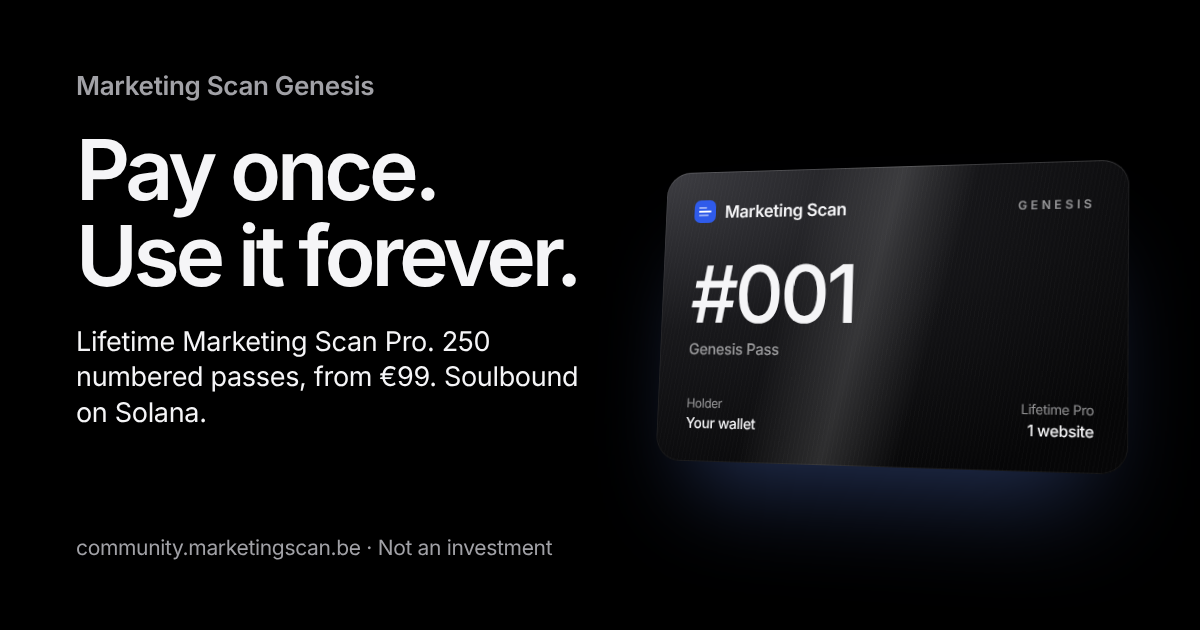
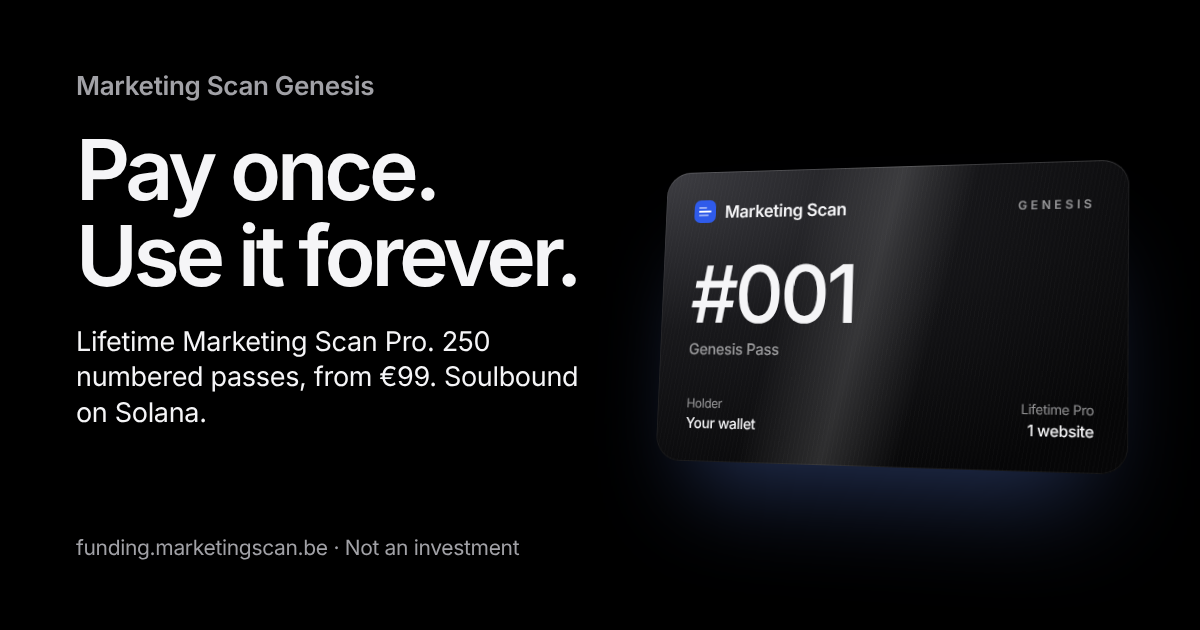
Domein: funding.marketingscan.be
Alle verwijzingen naar community.marketingscan.be wijzen nu naar
funding.marketingscan.be: canonieke link en deelafbeelding, metadata en
afbeeldingen van de passes, links in de X-posts, de deelknop na het claimen en
de achterkant van de pass. De supporter-badge en de test-euro op devnet wijzen
op de keten al naar het nieuwe adres.

Claude-Session: https://claude.ai/code/session_01Fs7m1nb7FMZ6Lk43gGJcuW

Changed region(s): [[0.0617, 0.8444, 0.4625, 0.9048]]

diff --git a/marketing/x/test/calendar.test.js b/marketing/x/test/calendar.test.js
@@ -41,7 +41,7 @@ test("de meegeleverde kalender: alles concept, Genesis-posts met beide vermeldin
     assert.doesNotMatch(r.tekst, /pre-?sale/i, r.id);
     assert.ok((r.tekst.match(/(^|\s)#[a-z]\w*/gi) ?? []).length <= 2, `${r.id}: max 2 hashtags`);
     for (const link of extractLinks(r.tekst)) {
-      if (link.raw.includes("community.marketingscan.be")) assert.ok(link.raw.endsWith(`?lang=${r.lang}`), `${r.id}: ${link.raw}`);
+      if (link.raw.includes("funding.marketingscan.be")) assert.ok(link.raw.endsWith(`?lang=${r.lang}`), `${r.id}: ${link.raw}`);
     }
   }
   const categories = new Set(reviewed.map((r) => r.categorie));
@@ -76,13 +76,13 @@ test("placeholders worden ingevuld vanuit config, links naar de site krijgen ?la
 });
 
 test("?lang komt er enkel bij als de link nog geen query heeft", () => {
-  assert.equal(withLang("https://community.marketingscan.be/genesis", "nl"), "https://community.marketingscan.be/genesis?lang=nl");
-  assert.equal(withLang("https://community.marketingscan.be/genesis?ref=x", "nl"), "https://community.marketingscan.be/genesis?ref=x");
-  assert.equal(withLang("https://community.marketingscan.be/genesis?lang=en", "nl"), "https://community.marketingscan.be/genesis?lang=en");
-  assert.equal(withLang("https://community.marketingscan.be/voorwaarden#refund", "en"), "https://community.marketingscan.be/voorwaarden?lang=en#refund");
+  assert.equal(withLang("https://funding.marketingscan.be/genesis", "nl"), "https://funding.marketingscan.be/genesis?lang=nl");
+  assert.equal(withLang("https://funding.marketingscan.be/genesis?ref=x", "nl"), "https://funding.marketingscan.be/genesis?ref=x");
+  assert.equal(withLang("https://funding.marketingscan.be/genesis?lang=en", "nl"), "https://funding.marketingscan.be/genesis?lang=en");
+  assert.equal(withLang("https://funding.marketingscan.be/voorwaarden#refund", "en"), "https://funding.marketingscan.be/voorwaarden?lang=en#refund");
   assert.equal(withLang("", "en"), "");
-  const custom = { ...config, links: { ...config.links, genesis: "https://community.marketingscan.be/genesis?utm_source=x" } };
-  assert.equal(renderText("{genesis}", custom), "https://community.marketingscan.be/genesis?utm_source=x");
+  const custom = { ...config, links: { ...config.links, genesis: "https://funding.marketingscan.be/genesis?utm_source=x" } };
+  assert.equal(renderText("{genesis}", custom), "https://funding.marketingscan.be/genesis?utm_source=x");
 });
 
 test("een link met ?lang telt nog altijd als 23 tekens", () => {
@@ -193,7 +193,7 @@ test("sjabloon wordt ingevuld met recente Genesis-cijfers", () => {
   assert.ok(current);
   assert.equal(current.moment.toISOString(), "2026-10-26T09:00:00.000Z");
   assert.match(current.tekst, /^Week 44: 42\/250 passes, 3\/25 agency-passes, 17 supporters, €12\.345,50 van €50\.000, 1\.234 wekelijkse gebruikers\. Stand: rechtsvorm bij de boekhouder\.\n/);
-  assert.match(current.tekst, /https:\/\/community\.marketingscan\.be\/transparantie\?lang=nl$/);
+  assert.match(current.tekst, /https:\/\/funding\.marketingscan\.be\/transparantie\?lang=nl$/);
   assert.equal(current.lang, "nl");
   assert.deepEqual(current.issues.filter((i) => i.niveau === "fout"), []);
 });

diff --git a/web/index.html b/web/index.html
@@ -5,24 +5,24 @@
     <meta name="viewport" content="width=device-width, initial-scale=1, viewport-fit=cover" />
     <title>Marketing Scan Genesis</title>
     <meta name="description" content="Pay once. Use it forever. Lifetime Marketing Scan Pro: 250 numbered passes in your own wallet, every euro public on Solana. Not an investment." />
-    <link rel="canonical" href="https://community.marketingscan.be/" />
+    <link rel="canonical" href="https://funding.marketingscan.be/" />
     <meta name="theme-color" content="#000000" />
 
     <meta property="og:type" content="website" />
     <meta property="og:site_name" content="Marketing Scan" />
     <meta property="og:locale" content="en_US" />
     <meta property="og:locale:alternate" content="nl_BE" />
-    <meta property="og:url" content="https://community.marketingscan.be/" />
+    <meta property="og:url" content="https://funding.marketingscan.be/" />
     <meta property="og:title" content="Marketing Scan Genesis: pay once, use it forever" />
     <meta property="og:description" content="250 numbered passes from €99, soulbound on Solana, 14-day refund. Not an investment." />
-    <meta property="og:image" content="https://community.marketingscan.be/og-genesis.png" />
+    <meta property="og:image" content="https://funding.marketingscan.be/og-genesis.png" />
     <meta property="og:image:width" content="1200" />
     <meta property="og:image:height" content="630" />
     <meta property="og:image:alt" content="Marketing Scan Genesis Pass #001: pay once, use it forever" />
     <meta name="twitter:card" content="summary_large_image" />
     <meta name="twitter:title" content="Marketing Scan Genesis: pay once, use it forever" />
     <meta name="twitter:description" content="250 numbered passes from €99, soulbound on Solana, 14-day refund. Not an investment." />
-    <meta name="twitter:image" content="https://community.marketingscan.be/og-genesis.png" />
+    <meta name="twitter:image" content="https://funding.marketingscan.be/og-genesis.png" />
 
     <link rel="icon" href="/icon.svg" type="image/svg+xml" />
     <link rel="preconnect" href="https://fonts.googleapis.com" />

diff --git a/marketing/x/test/compliance.test.js b/marketing/x/test/compliance.test.js
@@ -22,7 +22,7 @@ const config = {
     legalReviewDone: false,
     required: { en: "Not an investment", nl: "Geen investering" },
     noticeWhenNotLive: { en: "Not on sale yet", nl: "Nog geen verkoop" },
-    voorwaardenUrl: "https://community.marketingscan.be/voorwaarden",
+    voorwaardenUrl: "https://funding.marketingscan.be/voorwaarden",
   },
   links: { allowedDomains: ["marketingscan.be", "explorer.solana.com"] },
   maxHashtags: 2,
@@ -215,7 +215,7 @@ test("de demo op het testnet uitleggen is geen koopoproep", () => {
 });
 
 test("categorie verkoop: geblokkeerd tot verkoopActief en legalReviewDone allebei true zijn", () => {
-  const tekst = "Koop nu je Genesis Pass. Geen investering. https://community.marketingscan.be/voorwaarden";
+  const tekst = "Koop nu je Genesis Pass. Geen investering. https://funding.marketingscan.be/voorwaarden";
   for (const offer of [{}, { verkoopActief: true }, { legalReviewDone: true }]) {
     const cfg = withOffer(offer);
     assert.equal(saleLive(cfg), false);
@@ -512,7 +512,7 @@ test("Engels: de demo uitleggen en de scan aanbieden is geen koopoproep", () => 
 });
 
 test("Engels live: verkooppost met disclaimer en voorwaarden gaat door, enkel in categorie verkoop", () => {
-  const tekst = "Claim your Genesis Pass. Not an investment. https://community.marketingscan.be/voorwaarden?lang=en";
+  const tekst = "Claim your Genesis Pass. Not an investment. https://funding.marketingscan.be/voorwaarden?lang=en";
   assert.ok(rules(checkPost({ categorie: "verkoop", tekst }, { ...en, offer: { ...en.offer, verkoopActief: true } })).includes("verkoop-gesloten"));
   assert.equal(hasErrors(checkPost({ categorie: "verkoop", tekst }, enLive)), false);
   assert.ok(rules(checkPost({ categorie: "genesis", tekst }, enLive)).includes("koopoproep"));

diff --git a/marketing/x/test/text.test.js b/marketing/x/test/text.test.js
@@ -12,7 +12,7 @@ test("euroteken en emoji tellen dubbel, zoals op X", () => {
 });
 
 test("een link telt altijd als 23 tekens", () => {
-  assert.equal(weightedLength("Kijk: https://community.marketingscan.be/een/heel/lang/pad"), 6 + 23);
+  assert.equal(weightedLength("Kijk: https://funding.marketingscan.be/een/heel/lang/pad"), 6 + 23);
   assert.equal(weightedLength("www.marketingscan.be"), 23);
 });
 
@@ -24,7 +24,7 @@ test("leestekens na een link horen niet bij de link", () => {
 test("linkherkenning en host", () => {
   assert.equal(hasLink("geen link hier"), false);
   assert.equal(hasLink("ga naar marketingscan.be"), true);
-  assert.equal(linkHost("https://community.marketingscan.be/x"), "community.marketingscan.be");
+  assert.equal(linkHost("https://funding.marketingscan.be/x"), "funding.marketingscan.be");
   assert.equal(linkHost("marketingscan.be"), "marketingscan.be");
 });
 

diff --git a/web/src/pages/Claim.tsx b/web/src/pages/Claim.tsx
@@ -240,7 +240,7 @@ export default function Claim() {
   }
 
   if (phase === "done" && result) {
-    const site = company.communitySite ?? "https://community.marketingscan.be";
+    const site = company.communitySite ?? "https://funding.marketingscan.be";
     const text = result.choice === "steun" ? t.shareSupport : t.shareText(result.label);
     const share = `https://x.com/intent/post?text=${encodeURIComponent(`${text}${isTestnet ? " (devnet demo)" : ""}`)}&url=${encodeURIComponent(`${site}/genesis?lang=${lang}`)}`;
     return (

diff --git a/test/waitlist-api.test.js b/test/waitlist-api.test.js
@@ -4,7 +4,7 @@ import { handle, validate, supabaseHeaders } from "../api/waitlist.js";
 
 const env = { SUPABASE_URL: "https://abc.supabase.co", SUPABASE_SECRET_KEY: "sb_secret_x" };
 const req = (body, method = "POST") =>
-  new Request("https://community.marketingscan.be/api/waitlist", {
+  new Request("https://funding.marketingscan.be/api/waitlist", {
     method,
     headers: { "content-type": "application/json" },
     body: method === "POST" ? JSON.stringify(body) : undefined,

diff --git a/scripts/og/og.html b/scripts/og/og.html
@@ -34,7 +34,7 @@
       <div class="kicker">Marketing Scan Genesis</div>
       <h1>Pay once.<br>Use it forever.</h1>
       <div class="sub">Lifetime Marketing Scan Pro. 250 numbered passes, from €99. Soulbound on Solana.</div>
-      <div class="bottom">community.marketingscan.be · Not an investment</div>
+      <div class="bottom">funding.marketingscan.be · Not an investment</div>
     </div>
     <div class="card">
       <div class="glare"></div>

diff --git a/api/waitlist.js b/api/waitlist.js
@@ -1,4 +1,4 @@
-// Wachtlijst van de community-ronde: bewaart een e-mailadres met toestemming in Supabase.
+// Wachtlijst van Marketing Scan Genesis: bewaart een e-mailadres met toestemming in Supabase.
 // Draait als Vercel Function (Web-standaard Request/Response). Zonder SUPABASE_URL en
 // SUPABASE_SECRET_KEY antwoordt de functie 503, zodat de site toont dat de lijst nog niet actief is.
 

diff --git a/web/src/components/genesis.tsx b/web/src/components/genesis.tsx
@@ -79,7 +79,7 @@ export function PassBack({ variant }: { variant: PassVariant }) {
       </div>
       <div className="pass-bottom">
         <div>{t.fine}</div>
-        <div>community.marketingscan.be</div>
+        <div>funding.marketingscan.be</div>
       </div>
     </div>
   );

diff --git a/docs/x-promotie.md b/docs/x-promotie.md
@@ -84,14 +84,14 @@ De controles vangen de klassieke fouten op. Ze vervangen geen juridisch nazicht.
 | `defaultLang` | `"en"` | Taal van elke post zonder `lang`: `en` of `nl`. |
 | `offer.required` | `{ "en": "Not an investment", "nl": "Geen investering" }` | Verplichte vermelding in elke Genesis-post, per taal. |
 | `offer.noticeWhenNotLive` | `{ "en": "Not on sale yet", "nl": "Nog geen verkoop" }` | Verplichte vermelding zolang de verkoop niet live is, per taal. |
-| `offer.voorwaardenUrl` | `https://community.marketingscan.be/voorwaarden` | Link voor `{voorwaarden}`, verplicht in verkoopposts. |
+| `offer.voorwaardenUrl` | `https://funding.marketingscan.be/voorwaarden` | Link voor `{voorwaarden}`, verplicht in verkoopposts. |
 | `paused` | `false` | `true` zet alles in droogtest. |
 | `links.site`, `links.scan` | | Basisadressen. `{genesis}` en `{transparantie}` volgen uit `links.site`. |
 | `links.allowedDomains` | | Domeinen waarnaar een post mag linken. |
 
 De oude vorm met een gewone tekst (`"required": "Geen investering"`) werkt nog: die tekst geldt dan voor de Nederlandse posts, en de Engelse posts gebruiken de vaste standaardteksten "Not an investment" en "Not on sale yet". Ontbreekt een taal of een sleutel, dan gelden ook die standaardteksten: een vergeten sleutel schakelt nooit een vermelding uit.
 
-Placeholders in de kalender: `{site}`, `{scan}`, `{genesis}` (= `{site}/genesis`), `{transparantie}` (= `{site}/transparantie`) en `{voorwaarden}`. Alle behalve `{scan}` krijgen `?lang=` in de taal van de post, bv. `https://community.marketingscan.be/genesis?lang=en`.
+Placeholders in de kalender: `{site}`, `{scan}`, `{genesis}` (= `{site}/genesis`), `{transparantie}` (= `{site}/transparantie`) en `{voorwaarden}`. Alle behalve `{scan}` krijgen `?lang=` in de taal van de post, bv. `https://funding.marketingscan.be/genesis?lang=en`.
 
 ## Wekelijkse transparantie-update
 
